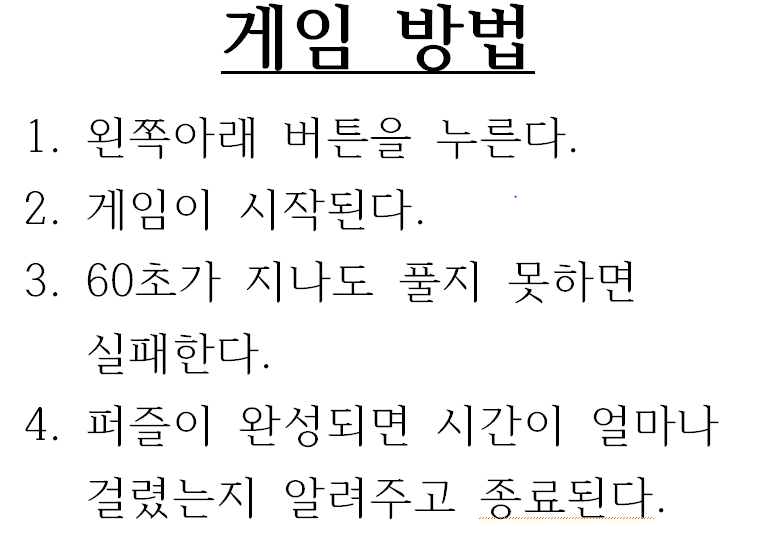
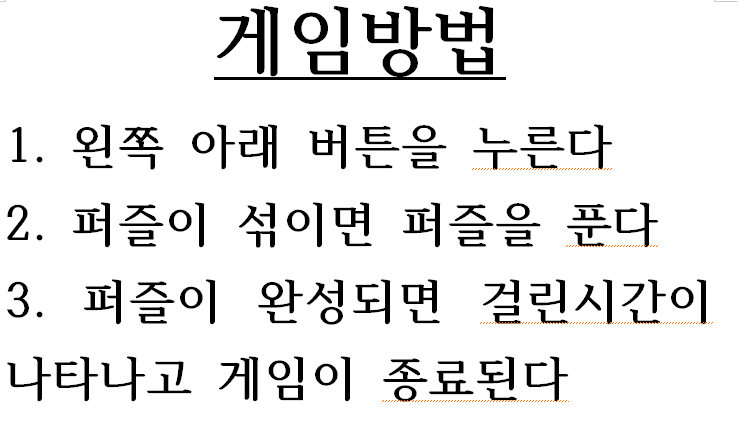
최종

diff --git a/puzzle.cpp b/puzzle.cpp
@@ -48,8 +48,9 @@ int randmove() {
 
 //셔플해주는 함수
 void game_set() {
-	for (int i = 0;i < 10;i++) {
-		game_move(randmove());
+	for (int i = 0;i < 1000;i++) {
+		if(check(randmove()))
+		    game_move(randmove());
 	}
 }
 
@@ -65,32 +66,33 @@ bool checkend() {
 void Start() {
 	scene = Scene::create("퍼즐 ", "Images/배경.png");
 	char path[30];
-	//60초 타이머 생성
-	auto timer1 = Timer::create(60);
+	
+	//타이머 생성
+	int a = 0;
+	auto timer1 = Timer::create(a);
 	showTimer(timer1);
 
-	timer1->setOnTimerCallback([&](TimerPtr timer)->bool {
-		showMessage("실패ㅠㅠ");
-		auto timer2 = Timer::create(1);
-		timer2->start();
 
-		timer2->setOnTimerCallback([&](TimerPtr timer)->bool {
-			endGame();
-			return true;
-			});
+	auto timer2 = Timer::create(1);
+	
+	timer2->setOnTimerCallback([&](TimerPtr timer)->bool {
+		a++;
+		timer1->set(a);
+		timer2->set(1);
+		timer2->start();
 		return true;
 		});
 
-	long long t1;
+
+
 	//시작하는 버튼 생성
 	auto button = Object::create("Images/시작.png", scene, 0, 400);
 	button->setScale(0.2f);
 	button->setOnMouseCallback([&](ObjectPtr object, int x, int y, MouseAction action)->bool {
-		timer1->start();
 		button->hide();
 		game_set();
 		showMessage("게임 시작!");
-	     t1 = time(NULL);
+		timer2->start();
 		return true;
 		});
 
@@ -103,17 +105,15 @@ void Start() {
 			int num = game_index(object);
 			if (check(num)) {
 				game_move(num);
-				if (checkend()) {
-					timer1->stop();
-					long long t2= time(NULL);
-					int a = t2 - t1;
+				if (checkend()) {			
 					char s1[100];
+					timer2->stop();
 					sprintf(s1, "성공!!!!!! %d초 걸렸습니다.", a);
 					showMessage(s1);
-					auto timer2 = Timer::create(1);
-					timer2->start();
+					auto timer3 = Timer::create(3);
+					timer3->start();
 
-					timer2->setOnTimerCallback([&](TimerPtr timer)->bool {
+					timer3->setOnTimerCallback([&](TimerPtr timer)->bool {
 						endGame();
 						return true;
 						});
@@ -133,7 +133,7 @@ void Start() {
 	auto howto = Object::create("Images/게임방법.png", scene, 0, 1000);
 	howto->setScale(0.8f);
 
-	auto explain = Object::create("Images/how.png", scene, 150, 450, false);
+	auto explain = Object::create("Images/how.png", scene, 150, 550, false);
 
 
 	howto->setOnMouseCallback([&](ObjectPtr object, int x, int y, MouseAction action)->bool {
